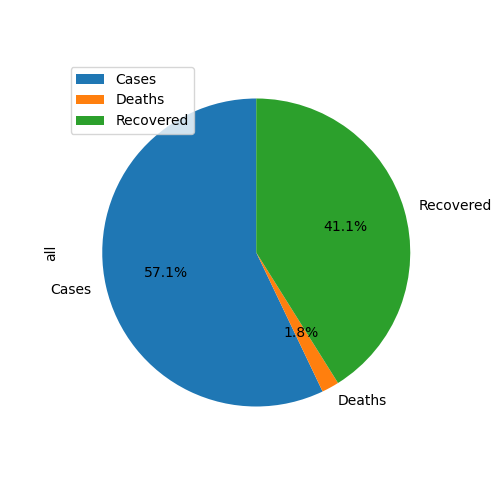
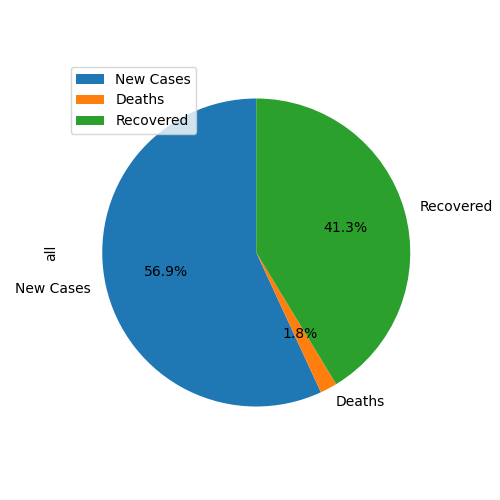
Commit: Updating the data

diff --git a/data.py b/data.py
@@ -36,7 +36,7 @@ plt.grid()
 # --------------------------- DATA IN PANDAS ---------------------------
 
 Data = {
-        'all' : [29487100, 933721, 21313861]
+        'all' : [30127635, 946726, 21875696]
 }
 
 
